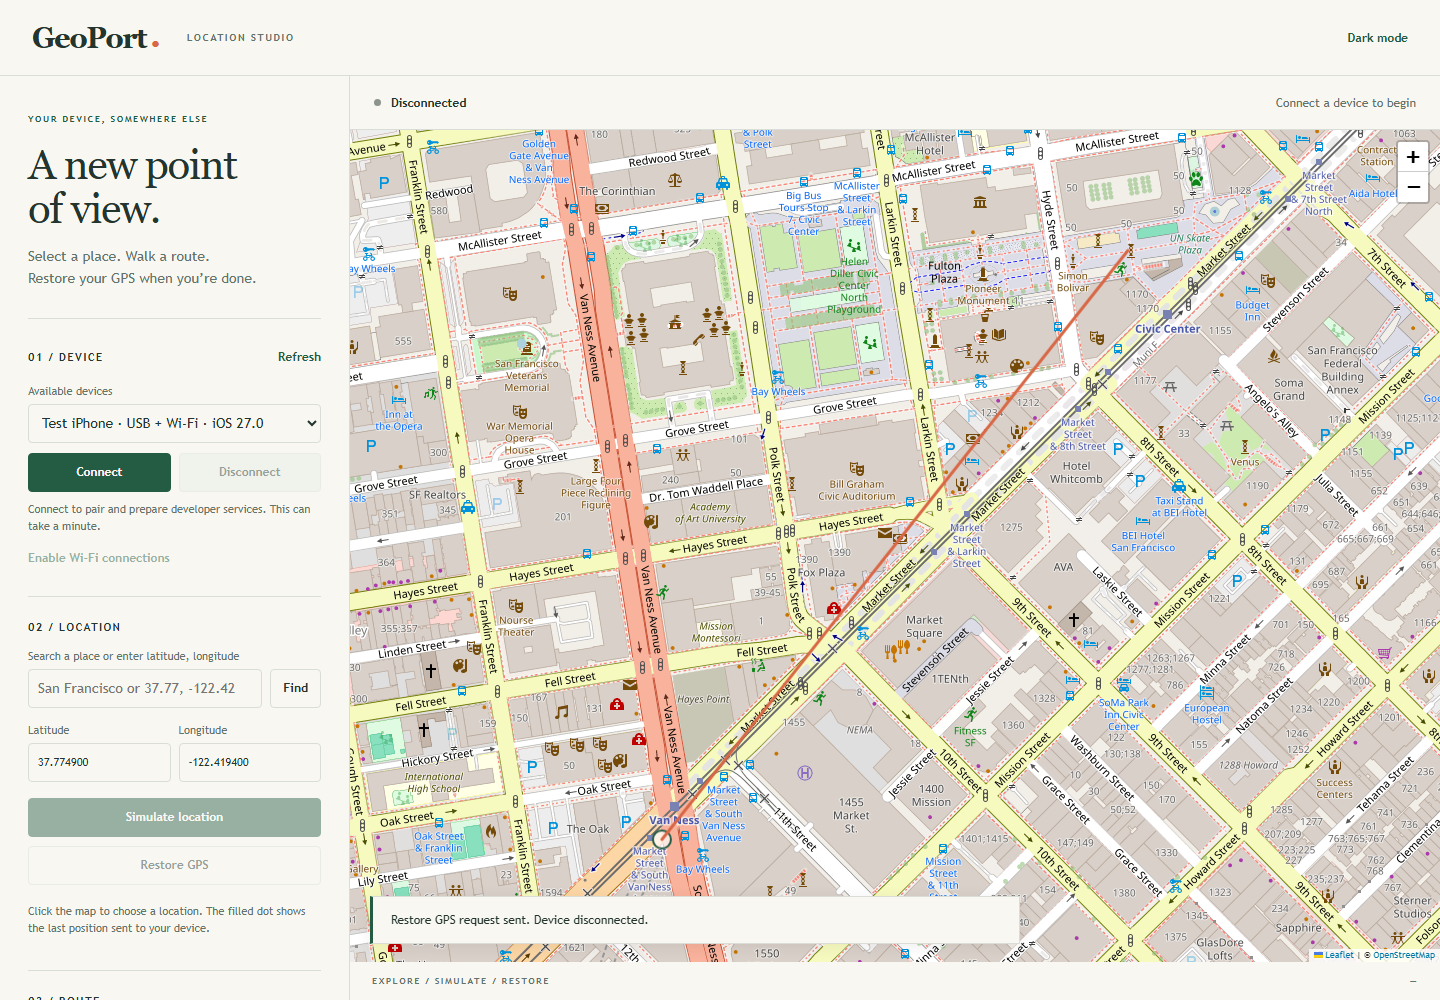
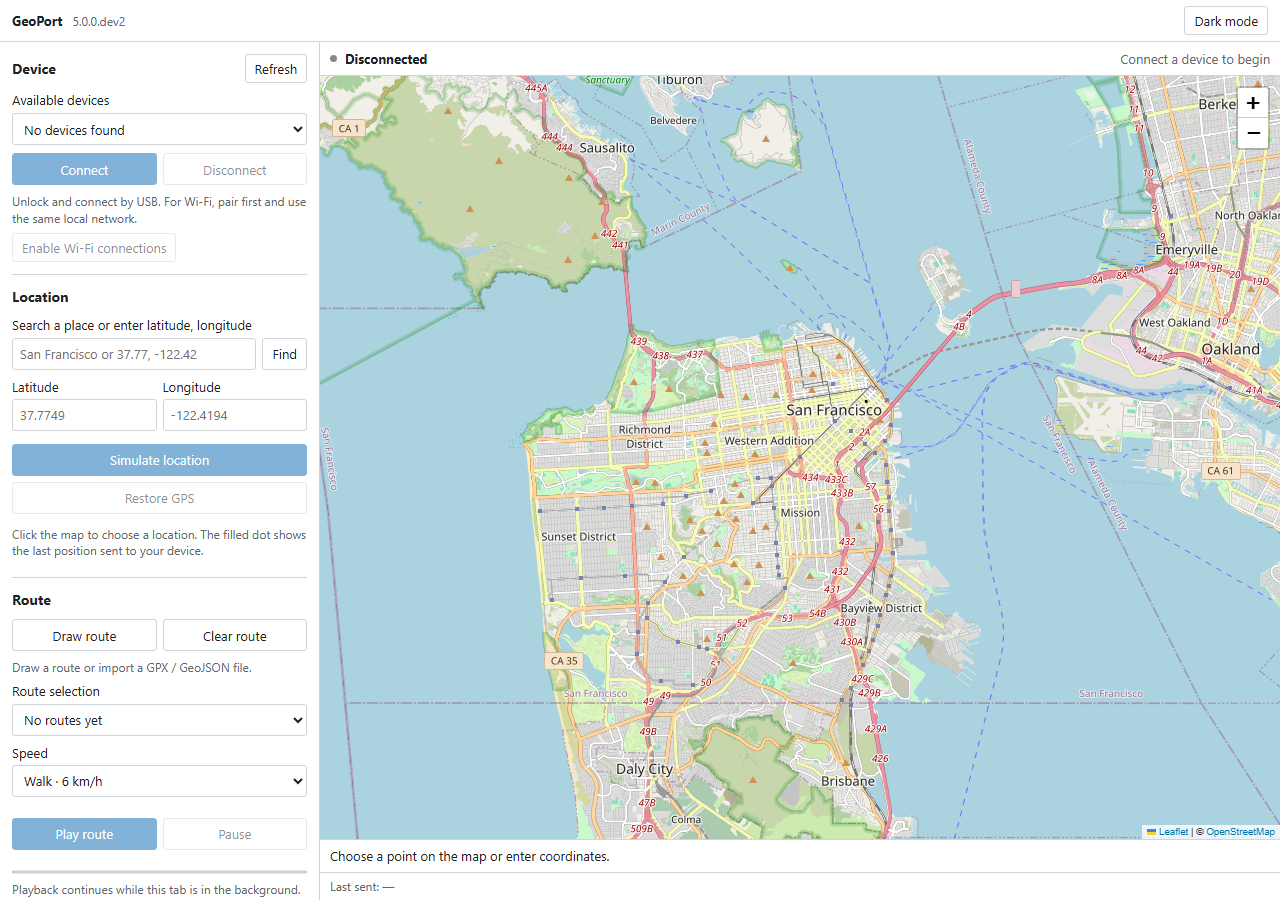
Fix map tile referrers and simplify the local interface

diff --git a/src/geoport/static/app.css b/src/geoport/static/app.css
@@ -1,4 +1,77 @@
-:root{--paper:#f8f7f2;--ink:#23352e;--muted:#64736b;--line:#d8ded7;--accent:#245b43;--soft:#e8ede6;--alert:#a33c2c;--map:#e2e6df;font-family:"Trebuchet MS",sans-serif;color:var(--ink);background:var(--paper);font-size:14px}
-*{box-sizing:border-box}body{margin:0}body.dark{--paper:#1e2924;--ink:#edf0e9;--muted:#adbbb1;--line:#405147;--accent:#82b797;--soft:#34473b;--map:#263b30}header{height:76px;border-bottom:1px solid var(--line);padding:0 32px;display:flex;align-items:center;gap:28px}.brand{font-family:Georgia,serif;font-size:29px;font-weight:bold;text-decoration:none;color:var(--ink);letter-spacing:-1.4px}.brand-dot{color:#d86745;font-size:15px;padding-left:5px}.edition,.eyebrow,.map-caption{font-size:10px;letter-spacing:1.6px;font-weight:bold}.edition{color:var(--muted)}header>button{margin-left:auto}main{display:grid;grid-template-columns:350px minmax(0,1fr);height:calc(100vh - 76px)}aside{overflow-y:auto;padding:28px;border-right:1px solid var(--line)}.intro{padding:0 0 14px}.eyebrow{color:var(--accent);font-size:9px}h1{font:42px/1.04 Georgia,serif;letter-spacing:-1.3px;margin:16px 0}p{line-height:1.55}.intro>p:last-child{color:var(--muted)}h2{font-size:11px;text-transform:uppercase;letter-spacing:1.4px;margin:0 0 17px}section{padding:24px 0;border-top:1px solid var(--line)}.section-title{display:flex;align-items:center;justify-content:space-between;margin-bottom:14px}.section-title h2{margin:0}label{font-size:11px;color:var(--muted);display:block;margin-bottom:7px}input,select,button,.file-button{font:inherit;color:var(--ink);border:1px solid var(--line);border-radius:4px;background:var(--paper);min-height:39px}input,select{width:100%;padding:9px;min-width:0}select{margin-bottom:10px}button,.file-button{padding:9px 12px;cursor:pointer;font-size:12px;font-weight:bold}button:hover,.file-button:hover{background:var(--soft)}button:disabled{opacity:.45;cursor:not-allowed}.primary{background:var(--accent);color:var(--paper);border-color:var(--accent)}.primary:hover{filter:brightness(1.1);background:var(--accent)}.quiet{border:0;min-height:28px;padding:4px 0;color:var(--accent);background:none}.button-row,.input-row,.coordinate-row,.speed-row{display:flex;gap:8px;margin-bottom:9px}.button-row>*{flex:1}.input-row input{flex:1}.coordinate-row{margin-top:16px}.coordinate-row label{width:50%}.coordinate-row input,.speed-row input,.speed-row select{margin-top:7px}.speed-row>label{flex:1}.full{width:100%;margin-bottom:9px}.hint{font-size:11px;color:var(--muted);margin:9px 0}.file-button{position:relative;text-align:center;color:var(--ink);margin:0;overflow:hidden}.file-button input{position:absolute;inset:0;opacity:0;cursor:pointer}progress{width:100%;height:6px;accent-color:var(--accent);margin:8px 0}details{border-top:1px solid var(--line);padding:20px 0}summary{cursor:pointer;font-size:12px;font-weight:bold}footer{font-size:10px;color:var(--muted);line-height:1.8;padding:15px 0}a{color:var(--accent)}.map-panel{position:relative;display:grid;grid-template-rows:54px minmax(200px,1fr) 38px;background:var(--map);min-height:0}.status-strip{display:flex;align-items:center;padding:0 24px;gap:10px;background:var(--paper);border-bottom:1px solid var(--line);font-size:12px}.status-dot{height:7px;width:7px;border-radius:50%;background:#8c948d}.status-dot.active{background:#4a9666}.status-dot.error{background:#d86745}.status-strip>span:last-child{margin-left:auto;color:var(--muted);overflow:hidden;text-overflow:ellipsis;white-space:nowrap}#map{height:100%;background:var(--map);z-index:0}#notice{position:absolute;bottom:56px;left:20px;right:20px;z-index:500;background:var(--paper);border:1px solid var(--line);border-left:3px solid var(--accent);padding:14px 18px;box-shadow:0 3px 16px #00000012;font-size:12px;line-height:1.5;max-width:650px}#notice.error{border-left-color:#d86745}.map-caption{display:flex;justify-content:space-between;align-items:center;padding:0 22px;background:var(--paper);color:var(--muted);font-size:9px}#search-results button,#bookmarks button,#fuel-results button{display:block;width:100%;text-align:left;margin-top:7px;font-size:11px;font-weight:normal;line-height:1.4}[hidden]{display:none!important}:focus-visible{outline:2px solid #d86745;outline-offset:3px}.leaflet-control-attribution{font-size:9px!important}.leaflet-container{font-family:"Trebuchet MS",sans-serif}.drawing{outline:2px solid #d86745}body.dark .leaflet-tile-pane{filter:brightness(.7) saturate(.7)}
-@media(max-width:900px){main{grid-template-columns:310px minmax(0,1fr)}aside{padding:22px}.status-strip{padding:0 14px}.status-strip>span:last-child{max-width:120px}}
-@media(max-width:650px){header{height:62px;padding:0 18px;gap:15px}.edition{font-size:8px}main{display:flex;flex-direction:column;height:auto}.map-panel{order:-1;height:52vh;min-height:320px;position:sticky;top:0;z-index:1;grid-template-rows:44px 1fr 28px}aside{overflow:visible;border:0;padding:22px}.intro{display:none}.status-strip>span:last-child{max-width:50%}#notice{bottom:40px;left:10px;right:10px;padding:9px 12px;max-height:90px;overflow:auto}.map-caption{font-size:8px;padding:0 12px}.brand{font-size:25px}}
+:root {
+  font: 13px system-ui, sans-serif;
+  color: #202124;
+  background: #fff;
+  --paper: #fff;
+  --ink: #202124;
+  --muted: #606770;
+  --line: #d0d4d8;
+  --soft: #f3f4f5;
+  --accent: #0867b2;
+}
+* { box-sizing: border-box; }
+body { margin: 0; }
+body.dark {
+  --paper: #202124;
+  --ink: #e8eaed;
+  --muted: #b0b5bc;
+  --line: #50545a;
+  --soft: #303237;
+  --accent: #8ab4f8;
+  color: var(--ink);
+  background: var(--paper);
+}
+header { height: 42px; display: flex; align-items: center; gap: 10px; padding: 0 12px; border-bottom: 1px solid var(--line); }
+header button { margin-left: auto; }
+.version { color: var(--muted); font-size: 12px; }
+main { display: grid; grid-template-columns: 320px minmax(0, 1fr); height: calc(100vh - 42px); }
+aside { overflow-y: auto; padding: 12px; border-right: 1px solid var(--line); }
+section { padding: 12px 0; border-bottom: 1px solid var(--line); }
+section:first-child { padding-top: 0; }
+h2 { font-size: 14px; margin: 0 0 10px; }
+.section-title { display: flex; justify-content: space-between; align-items: center; margin-bottom: 8px; }
+.section-title h2 { margin: 0; }
+label { display: block; margin-bottom: 5px; }
+input, select, button, .file-button { font: inherit; color: var(--ink); background: var(--paper); border: 1px solid var(--line); border-radius: 3px; min-height: 32px; }
+input, select { width: 100%; min-width: 0; padding: 5px 7px; }
+select { margin-bottom: 8px; }
+button, .file-button { padding: 5px 9px; cursor: pointer; }
+button:hover, .file-button:hover { background: var(--soft); }
+button:disabled { opacity: .5; cursor: default; }
+.primary { background: var(--accent); border-color: var(--accent); color: var(--paper); }
+.primary:hover { background: var(--accent); filter: brightness(.93); }
+.quiet { min-height: 28px; }
+.button-row, .input-row, .coordinate-row, .speed-row { display: flex; gap: 6px; margin-bottom: 8px; }
+.button-row > *, .coordinate-row > *, .speed-row > * { flex: 1; min-width: 0; }
+.input-row input { flex: 1; }
+.coordinate-row { margin-top: 8px; }
+.coordinate-row input, .speed-row input, .speed-row select { margin-top: 4px; }
+.full { width: 100%; margin-bottom: 6px; }
+.hint { font-size: 12px; color: var(--muted); line-height: 1.4; margin: 6px 0; }
+.file-button { position: relative; text-align: center; margin: 0; overflow: hidden; }
+.file-button input { position: absolute; inset: 0; opacity: 0; cursor: pointer; }
+progress { width: 100%; height: 6px; accent-color: var(--accent); }
+details { padding: 12px 0; }
+summary { cursor: pointer; font-weight: 600; }
+a { color: var(--accent); }
+.map-panel { display: grid; grid-template-rows: 34px minmax(180px, 1fr) auto 28px; min-height: 0; min-width: 0; }
+.status-strip { display: flex; align-items: center; gap: 8px; padding: 0 10px; border-bottom: 1px solid var(--line); }
+.status-strip > span:last-child { margin-left: auto; color: var(--muted); overflow: hidden; text-overflow: ellipsis; white-space: nowrap; }
+.status-dot { width: 7px; height: 7px; border-radius: 50%; background: #888; flex-shrink: 0; }
+.status-dot.active { background: #198038; }
+.status-dot.error { background: #c62828; }
+#map { height: 100%; min-height: 0; background: var(--soft); z-index: 0; }
+#notice { padding: 7px 10px; border-top: 1px solid var(--line); line-height: 1.4; }
+#notice.error { color: #c62828; }
+body.dark #notice.error { color: #ff8c8c; }
+.map-caption { padding: 5px 10px; border-top: 1px solid var(--line); color: var(--muted); font-size: 12px; }
+#live-coordinates { font-variant-numeric: tabular-nums; }
+#search-results button, #bookmarks button, #fuel-results button { display: block; width: 100%; margin-bottom: 5px; text-align: left; overflow-wrap: anywhere; }
+.drawing { outline: 2px solid var(--accent); }
+[hidden] { display: none !important; }
+@media (max-width: 650px) {
+  main { display: flex; flex-direction: column; height: auto; }
+  .map-panel { order: -1; height: 48vh; min-height: 300px; }
+  aside { overflow: visible; border-right: 0; }
+  .status-strip > span:last-child { max-width: 50%; }
+}

diff --git a/src/geoport/templates/map.html b/src/geoport/templates/map.html
@@ -4,23 +4,20 @@
   <meta charset="utf-8">
   <meta name="viewport" content="width=device-width, initial-scale=1">
   <meta name="geoport-token" content="{{ token }}">
-  <title>GeoPort · Location studio</title>
+  <title>GeoPort</title>
   <link rel="stylesheet" href="{{ url_for('static', filename='vendor/leaflet.css') }}">
   <link rel="stylesheet" href="{{ url_for('static', filename='app.css') }}">
   <script defer src="{{ url_for('static', filename='vendor/leaflet.js') }}"></script>
   <script type="module" src="{{ url_for('static', filename='app.js') }}"></script>
 </head>
 <body>
-  <header><a class="brand" href="/">GeoPort<span class="brand-dot">●</span></a>
-    <span class="edition">LOCATION STUDIO</span>
+  <header><strong>GeoPort</strong><span class="version">{{ version }}</span>
     <button id="theme" class="quiet">Dark mode</button>
   </header>
   <main>
     <aside>
-      <div class="intro"><p class="eyebrow">YOUR DEVICE, SOMEWHERE ELSE</p>
-        <h1>A new point<br>of view.</h1><p>Select a place. Walk a route.<br>Restore your GPS when you’re done.</p></div>
       <section aria-labelledby="device-heading">
-        <div class="section-title"><h2 id="device-heading">01 / Device</h2><button id="refresh" class="quiet">Refresh</button></div>
+        <div class="section-title"><h2 id="device-heading">Device</h2><button id="refresh" class="quiet">Refresh</button></div>
         <label for="device">Available devices</label>
         <select id="device"><option value="">Looking for devices…</option></select>
         <div class="button-row"><button id="connect" class="primary" disabled>Connect</button>
@@ -29,7 +26,7 @@
         <button id="wifi" class="quiet" disabled>Enable Wi-Fi connections</button>
       </section>
       <section aria-labelledby="place-heading">
-        <h2 id="place-heading">02 / Location</h2>
+        <h2 id="place-heading">Location</h2>
         <form id="search-form"><label for="search">Search a place or enter latitude, longitude</label>
           <div class="input-row"><input id="search" placeholder="San Francisco or 37.77, -122.42" autocomplete="off"><button>Find</button></div>
         </form>
@@ -43,7 +40,7 @@
         <p class="hint">Click the map to choose a location. The filled dot shows the last position sent to your device.</p>
       </section>
       <section aria-labelledby="route-heading">
-        <h2 id="route-heading">03 / Route</h2>
+        <h2 id="route-heading">Route</h2>
         <div class="button-row"><button id="draw">Draw route</button><button id="clear-route">Clear route</button></div>
         <p id="route-hint" class="hint">Draw a route or import a GPX / GeoJSON file.</p>
         <label for="routes">Route selection</label><select id="routes"><option value="">No routes yet</option></select>
@@ -59,13 +56,12 @@
         <p class="hint">Optional data from Project Zero Three. Loaded only when opened.</p>
         <label for="region">Region</label><select id="region"><option>All</option><option>ACT</option><option>NSW</option><option>NT</option><option>QLD</option><option>SA</option><option>TAS</option><option>VIC</option><option>WA</option></select>
         <div id="fuel-results"></div></details>
-      <footer>Version {{ version }} · Based on <a href="https://github.com/davesc63/GeoPort" target="_blank" rel="noreferrer">GeoPort</a><br>No analytics. Device control stays on this computer.</footer>
     </aside>
     <div class="map-panel">
       <div class="status-strip"><span id="status-dot" class="status-dot"></span><strong id="status">Disconnected</strong><span id="active-device">Connect a device to begin</span></div>
       <div id="map" aria-label="Location map"></div>
       <div id="notice" role="status" aria-live="polite">Choose a point on the map or enter coordinates.</div>
-      <div class="map-caption"><span>EXPLORE / SIMULATE / RESTORE</span><span id="live-coordinates">—</span></div>
+      <div class="map-caption">Last sent: <span id="live-coordinates">—</span></div>
     </div>
   </main>
 </body>

diff --git a/src/geoport/web.py b/src/geoport/web.py
@@ -64,7 +64,7 @@ def create_app(runtime):
         response.headers["Cache-Control"] = "no-store"
         response.headers["X-Content-Type-Options"] = "nosniff"
         response.headers["X-Frame-Options"] = "DENY"
-        response.headers["Referrer-Policy"] = "no-referrer"
+        response.headers["Referrer-Policy"] = "strict-origin-when-cross-origin"
         return response
 
     @app.errorhandler(GeoPortError)

diff --git a/src/geoport/__init__.py b/src/geoport/__init__.py
@@ -1,3 +1,3 @@
 """GeoPort's application and device services."""
 
-__version__ = "5.0.0.dev1"
+__version__ = "5.0.0.dev2"
